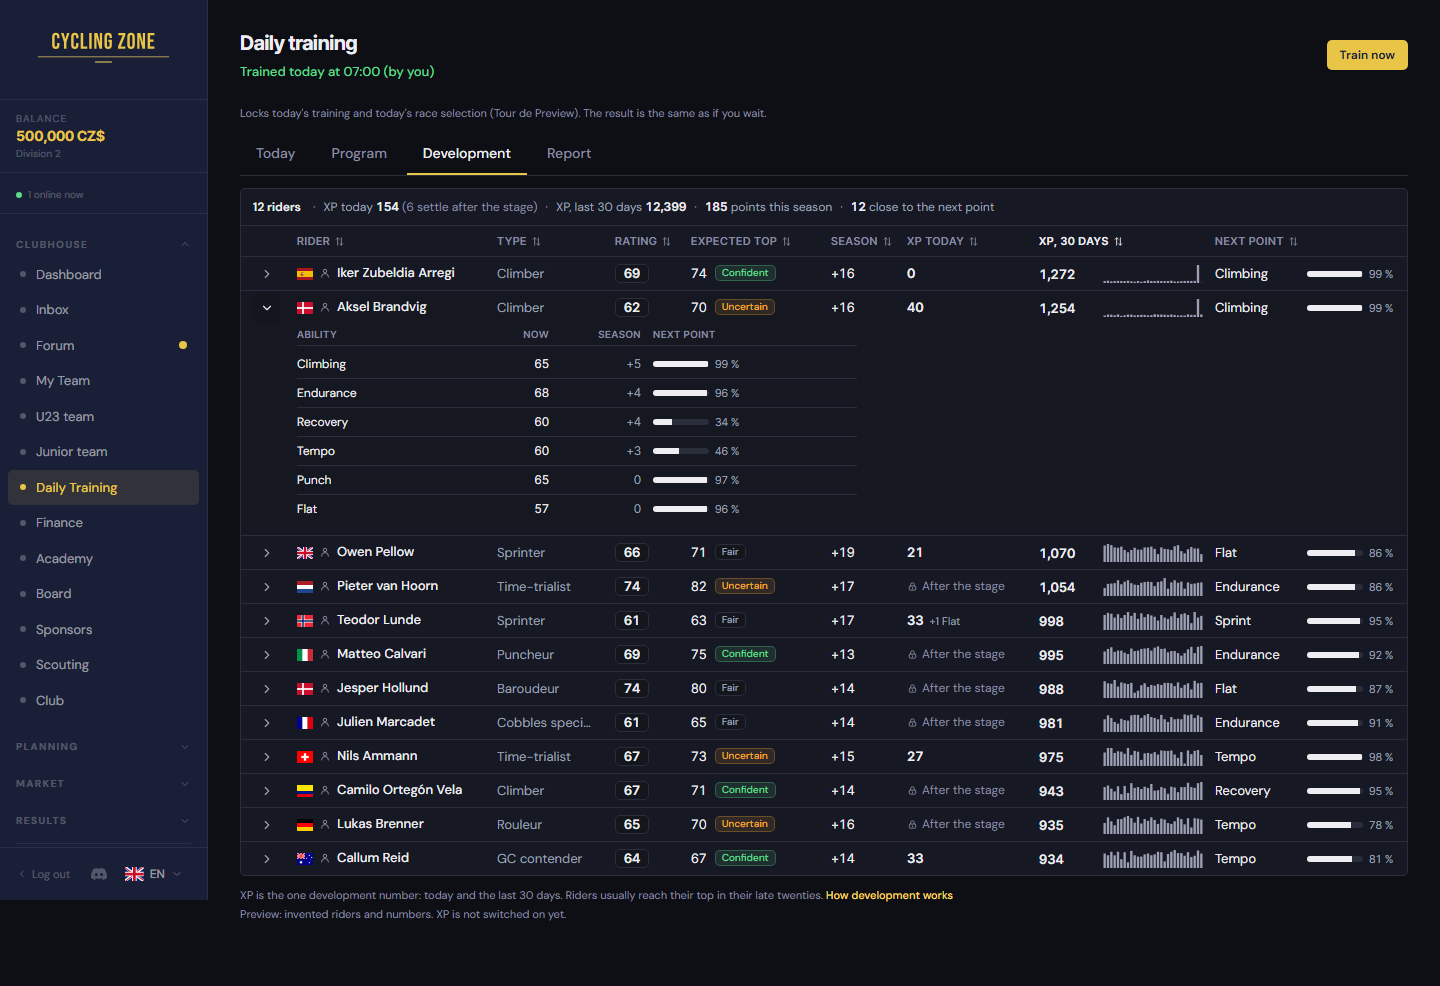
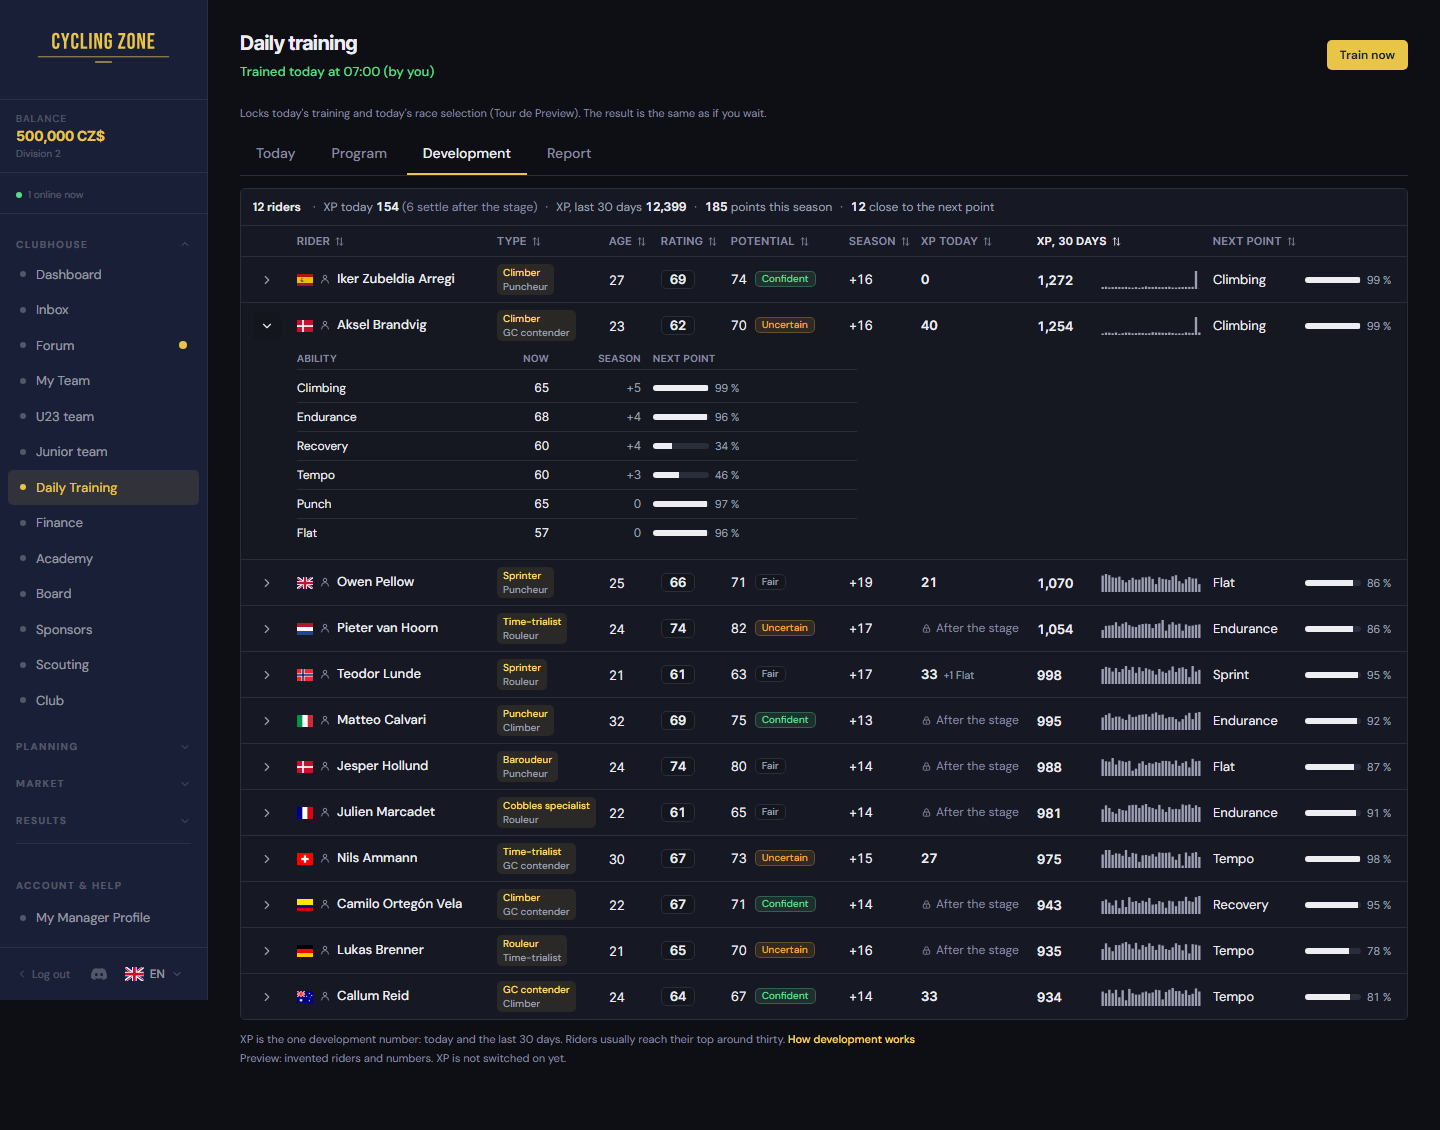
feat(7947): Udvikling-fanen viser alder og ryttertypen som i truppen (ejer 19/11, Refs #7947)
Alder (ageForSeason, sorterbar) som den gamle Udvikling-fane, og typen som RiderTypeBadge stacked.
Kolonnebredder justeret, saa intet loeber over kanten paa 1440. Nye efter-billeder (moerk).

diff --git a/frontend/src/components/training/DevelopmentTabXp.tsx b/frontend/src/components/training/DevelopmentTabXp.tsx
@@ -3,6 +3,7 @@ import { useTranslation } from "react-i18next";
 import { Link } from "react-router";
 import { ChevronDownIcon as ChevronDownJs, ChevronRightIcon as ChevronRightJs, LockIcon as LockJs, SortIcon as SortJs } from "../ui/icons/index.jsx";
 import { SkeletonLines as SkeletonLinesJs } from "../ui/Skeleton.jsx";
+import RiderTypeBadgeJs from "../rider/RiderTypeBadge.jsx";
 import PotentialEstimate from "../rider/PotentialEstimate.tsx";
 import AcademyPrognosisCell, { type AcademyPrognosis } from "../rider/AcademyPrognosisCell.tsx";
 import { fetchPlayerFeatureFlags } from "../../lib/playerFeatureFlags.js";
@@ -33,6 +34,8 @@ const ChevronRightIcon = ChevronRightJs as unknown as Icon;
 const LockIcon = LockJs as unknown as Icon;
 const SortIcon = SortJs as unknown as Icon;
 const SkeletonLines = SkeletonLinesJs as unknown as ComponentType<{ lines?: number }>;
+// Ejer 19/11: ryttertypen som i spillets andre tabeller (truppen): RiderTypeBadge, primær + sekundær, stacked.
+const RiderTypeBadge = RiderTypeBadgeJs as unknown as ComponentType<{ primaryType: string; secondaryType?: string | null; stacked?: boolean }>;
 const riderOverallRating = riderOverallRatingJs as unknown as (rider: unknown) => number | null;
 const copenhagenDayKey = copenhagenDayKeyJs as unknown as (ms: number) => string;
 const formatNumber = formatNumberJs as unknown as (n: number) => string;
@@ -48,10 +51,12 @@ type Props = {
   estimateFor: (riderId: string) => unknown;
   seasonGains: Record<string, Record<string, number> | null | undefined>;
   racingToday: Record<string, unknown> | null | undefined;
+  /** Alder i sæsonen pr. rytter (samme som den gamle Udvikling-fane, ageForSeason). */
+  ageFor?: (riderId: string) => number | null;
   children: ReactNode;
 };
 
-export default function DevelopmentXpSwitch({ runs, roster, estimateFor, seasonGains, racingToday, children }: Props) {
+export default function DevelopmentXpSwitch({ runs, roster, estimateFor, seasonGains, racingToday, ageFor, children }: Props) {
   const isPreview = Boolean(import.meta.env.VITE_PREVIEW_MOCK);
   const preview = previewXpDevelopment(isPreview, typeof window === "undefined" ? "" : window.location.search);
   const [flagOn, setFlagOn] = useState(false);
@@ -63,7 +68,7 @@ export default function DevelopmentXpSwitch({ runs, roster, estimateFor, seasonG
   }, [isPreview]);
   const mode = xpDevelopmentMode({ preview, flagOn, hasXp: hasXpFields(runs as never) });
   if (mode === "off") return <>{children}</>;
-  return <DevelopmentTabXp fixture={mode === "fixture"} runs={runs} roster={roster} estimateFor={estimateFor} seasonGains={seasonGains} racingToday={racingToday} />;
+  return <DevelopmentTabXp fixture={mode === "fixture"} runs={runs} roster={roster} estimateFor={estimateFor} seasonGains={seasonGains} racingToday={racingToday} ageFor={ageFor} />;
 }
 
 const NUM = "font-data tabular-nums";
@@ -72,7 +77,7 @@ const LABEL = "mb-1 font-data text-3xs font-semibold uppercase tracking-[.06em] 
 const RATING_PLATE = `inline-flex min-w-[2.125rem] items-center justify-center rounded-cz border border-cz-border bg-cz-subtle px-1 py-0.5 text-[13px] font-semibold leading-none text-cz-1 ${NUM}`;
 const PHONE_GRID = "grid-cols-[minmax(0,1fr)_2.75rem_3.75rem_5.5rem]";
 
-function DevelopmentTabXp({ fixture, runs, roster, estimateFor, seasonGains, racingToday }: Omit<Props, "children"> & { fixture: boolean }) {
+function DevelopmentTabXp({ fixture, runs, roster, estimateFor, seasonGains, racingToday, ageFor }: Omit<Props, "children"> & { fixture: boolean }) {
   const { t } = useTranslation("training");
   const desktop = useMediaQuery("(min-width: 1024px)");
   const [open, setOpen] = useState<Set<string>>(() => new Set());
@@ -91,12 +96,13 @@ function DevelopmentTabXp({ fixture, runs, roster, estimateFor, seasonGains, rac
       nation: r.nationality_code ?? null,
       type: r.primary_type ? { primary: r.primary_type, secondary: r.secondary_type ?? null } as XpRiderType : null,
       rating: riderOverallRating(r),
+      age: ageFor?.(r.id) ?? null,
       abilities: r as Record<string, number | null | undefined>,
       top: topOf(estimateFor(r.id)),
       racingToday: racingToday?.[r.id] != null,
     }));
     return buildDevelopmentRows({ runs: runs as XpReceipt[], riders, todayKey: copenhagenDayKey(Date.now()), seasonGains });
-  }, [fixture, runs, roster, estimateFor, seasonGains, racingToday]);
+  }, [fixture, runs, roster, estimateFor, seasonGains, racingToday, ageFor]);
 
   if (!rows) return <div className="rounded-cz border border-cz-border bg-cz-card p-5"><SkeletonLines lines={10} /></div>;
   const sorted = sortDevRows(rows, sort);
@@ -167,10 +173,8 @@ function Name({ row, short = false }: { row: DevRow; short?: boolean }) {
 }
 
 function TypeText({ type }: { type: XpRiderType | null }) {
-  const { t } = useTranslation("riderTypes");
   if (!type?.primary) return <span className="text-cz-3">—</span>;
-  const full = type.secondary && type.secondary !== type.primary ? `${t(`types.${type.primary}`)}/${t(`types.${type.secondary}`)}` : t(`types.${type.primary}`);
-  return <span className="block truncate text-[13px] text-cz-2" title={full}>{t(`types.${type.primary}`)}</span>;
+  return <RiderTypeBadge primaryType={type.primary} secondaryType={type.secondary} stacked />;
 }
 
 function Rating({ value }: { value: number | null }) {
@@ -257,17 +261,19 @@ function Abilities({ row, phone }: { row: DevRow; phone: boolean }) {
 function DesktopTable({ rows, open, toggle, sort, onSort }: { rows: DevRow[]; open: Set<string>; toggle: (id: string) => void; sort: SortState; onSort: (k: SortKey) => void }) {
   const { t } = useTranslation("training");
   const { t: tRider } = useTranslation("rider");
+  const { t: tRiders } = useTranslation("riders");
   return (
     <table className="w-full min-w-[1160px] table-fixed text-xs" data-sortable data-testid="development-xp-table">
       <thead>
         <tr className="border-b border-cz-border">
           <th className="w-[44px]"><span className="sr-only">{t("developmentXp.abilitiesCol")}</span></th>
           <SortHead k="rider" label={t("colRider")} className="w-[200px]" sort={sort} onSort={onSort} />
-          <SortHead k="type" label={t("colType")} className="w-[118px]" sort={sort} onSort={onSort} />
-          <SortHead k="rating" label={t("developmentXp.colRating")} className="w-[76px]" sort={sort} onSort={onSort} />
-          <SortHead k="top" label={t("developmentXp.colTop")} className="w-[140px]" sort={sort} onSort={onSort} />
-          <SortHead k="season" label={t("developmentXp.colSeason")} className="w-[76px]" sort={sort} onSort={onSort} />
-          <SortHead k="xpToday" label={t("developmentXp.colXpToday")} className="w-[132px]" sort={sort} onSort={onSort} />
+          <SortHead k="type" label={t("colType")} className="w-[112px]" sort={sort} onSort={onSort} />
+          <SortHead k="age" label={tRiders("table.age")} className="w-[52px]" sort={sort} onSort={onSort} />
+          <SortHead k="rating" label={t("developmentXp.colRating")} className="w-[70px]" sort={sort} onSort={onSort} />
+          <SortHead k="top" label={t("developmentXp.colTop")} className="w-[118px]" sort={sort} onSort={onSort} />
+          <SortHead k="season" label={t("developmentXp.colSeason")} className="w-[72px]" sort={sort} onSort={onSort} />
+          <SortHead k="xpToday" label={t("developmentXp.colXpToday")} className="w-[116px]" sort={sort} onSort={onSort} />
           <SortHead k="xp30" label={t("developmentXp.colXp30")} className="w-[176px]" sort={sort} onSort={onSort} />
           <SortHead k="next" label={t("developmentXp.colNext")} sort={sort} onSort={onSort} />
         </tr>
@@ -286,6 +292,7 @@ function DesktopTable({ rows, open, toggle, sort, onSort }: { rows: DevRow[]; op
                 </td>
                 <td className="px-3 py-[7px]"><Name row={row} /></td>
                 <td className="px-3 py-[7px]"><TypeText type={row.type} /></td>
+                <td className={`px-3 py-[7px] text-[13px] text-cz-1 ${NUM}`}>{row.age ?? "—"}</td>
                 <td className="px-3 py-[7px]"><Rating value={row.rating} /></td>
                 <td className="px-3 py-[7px]"><Top top={row.top} /></td>
                 <td className="px-3 py-[7px]"><Season value={row.season} /></td>
@@ -308,7 +315,7 @@ function DesktopTable({ rows, open, toggle, sort, onSort }: { rows: DevRow[]; op
               {o && (
                 <tr className="bg-cz-subtle/40">
                   <td />
-                  <td colSpan={8} className="px-3 pb-3 pt-1"><div className="max-w-[560px]"><Abilities row={row} phone={false} /></div></td>
+                  <td colSpan={9} className="px-3 pb-3 pt-1"><div className="max-w-[560px]"><Abilities row={row} phone={false} /></div></td>
                 </tr>
               )}
             </Fragment>

diff --git a/frontend/src/components/training/DevelopmentTabXpModel.ts b/frontend/src/components/training/DevelopmentTabXpModel.ts
@@ -32,6 +32,8 @@ export type DevRiderInput = {
   nation: string | null;
   type: XpRiderType | null;
   rating: number | null;
+  /** Age this season (ejer 19/11: aldrig mindre end den gamle Udvikling-fane). */
+  age?: number | null;
   /** Ability values now, keyed like the receipts (climbing, flat, ...). */
   abilities: Record<string, number | null | undefined>;
   top: TopValue;
@@ -43,7 +45,7 @@ export type XpTodayCell = { state: "locked" } | { state: "none" } | { state: "xp
 
 export type DevRow = {
   id: string; name: string; firstname: string | null; lastname: string | null; nation: string | null; type: XpRiderType | null;
-  rating: number | null; top: TopValue;
+  rating: number | null; age: number | null; top: TopValue;
   season: number | null;
   today: XpTodayCell;
   spark: number[]; xp30: number;
@@ -148,7 +150,7 @@ export function buildDevelopmentRows({ runs, riders, todayKey, seasonGains, forc
     const nextPct = m?.next ? barPct(m.next) : null;
     return {
       id: rider.id, name: rider.name, firstname: rider.firstname ?? null, lastname: rider.lastname ?? null, nation: rider.nation, type: rider.type,
-      rating: rider.rating, top: rider.top, season, today,
+      rating: rider.rating, age: rider.age ?? null, top: rider.top, season, today,
       spark: m?.spark ?? Array.from({ length: days }, () => 0),
       xp30: m?.xp ?? 0,
       next: nextKey && nextPct != null ? { key: nextKey, pct: nextPct } : null,
@@ -169,7 +171,7 @@ export function devSummary(rows: readonly DevRow[]): DevSummary {
   };
 }
 
-export type SortKey = "rider" | "type" | "rating" | "top" | "season" | "xpToday" | "xp30" | "next";
+export type SortKey = "rider" | "type" | "age" | "rating" | "top" | "season" | "xpToday" | "xp30" | "next";
 export type SortState = { key: SortKey; dir: 1 | -1 };
 export const DEFAULT_SORT: SortState = { key: "xp30", dir: -1 };
 
@@ -183,6 +185,7 @@ function sortValue(row: DevRow, key: SortKey): string | number | null {
   switch (key) {
     case "rider": return row.name;
     case "type": return row.type?.primary ?? null;
+    case "age": return row.age;
     case "rating": return row.rating;
     case "top": return topSortValue(row.top);
     case "season": return row.season;
@@ -259,6 +262,7 @@ export function buildDevelopmentFixture(): { runs: XpReceipt[]; riders: DevRider
     const certainty = CERTAINTY_WORDS[index % CERTAINTY_WORDS.length];
     return {
       id, name: row.name || id, nation: fx.nations[id] ?? null, type: fx.types[id] ?? null, rating, abilities,
+      age: between(fixtureHash(id, "age"), 20, 33),
       top: { kind: "view", value: rating + between(fixtureHash(id, "top"), 2, 9),
         view: { hidden: false, value: rating + between(fixtureHash(id, "top"), 2, 9), certainty, previousValue: null, previousCertainty: null, changedAt: null } },
       racingToday: row.activities?.some(a => a.race_day === true) ?? false,

diff --git a/frontend/src/pages/TrainingPage.jsx b/frontend/src/pages/TrainingPage.jsx
@@ -2596,7 +2596,7 @@ export default function TrainingPage() {
           scout-knap eller slots-tilstand at vise her. */}
       <TabPanel value="development">
         <Suspense fallback={<TabFallback />}>
-        <DevelopmentXpSwitch runs={receiptRuns} roster={ridersLoading ? null : riders} estimateFor={estimateFor} seasonGains={seasonGainsByRider} racingToday={racingToday}>
+        <DevelopmentXpSwitch runs={receiptRuns} roster={ridersLoading ? null : riders} estimateFor={estimateFor} seasonGains={seasonGainsByRider} racingToday={racingToday} ageFor={(id) => { const r = riders.find((x) => x.id === id); return r ? ageForSeason(r.birthdate, seasonYear) : null; }}>
         {/* #6025 (ejer-valg A 1/10): saesonens fremgang staar oeverst her
             i stedet for i Today-tabellen. Samme tal og samme kvittering. */}
         {!ridersLoading && (
